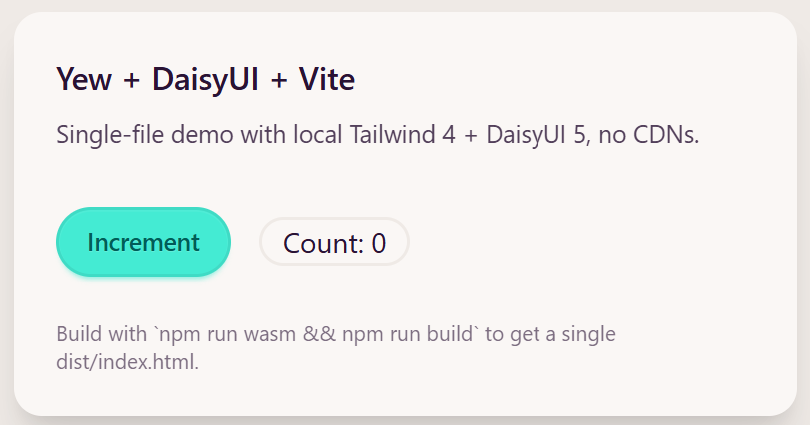
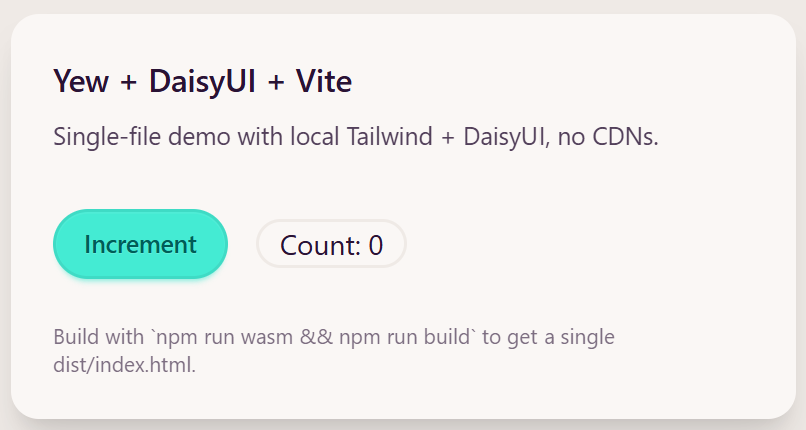
Update README and demo description to remove version numbers for Tailwind and DaisyUI

diff --git a/my-yew-app/src/lib.rs b/my-yew-app/src/lib.rs
@@ -16,7 +16,7 @@ pub fn app() -> Html {
                 <div class="card-body">
                     <h2 class="card-title">{"Yew + DaisyUI + Vite"}</h2>
                     <p class="text-sm opacity-80">
-                        {"Single-file demo with local Tailwind 4 + DaisyUI 5, no CDNs."}
+                        {"Single-file demo with local Tailwind + DaisyUI, no CDNs."}
                     </p>
 
                     <div class="mt-6 flex items-center gap-4">

diff --git a/README.md b/README.md
@@ -1,7 +1,7 @@
-# Yew + DaisyUI + Tailwind 4 + Vite (Single HTML file)
+# Yew + DaisyUI + Tailwind + Vite (Single HTML file)
 
 This is a minimal example of a Yew app compiled to WebAssembly and bundled
-with Vite, using Tailwind CSS 4 and DaisyUI 5 **without any CDNs**.
+with Vite, using Tailwind CSS and DaisyUI **without any CDNs**.
 
 ![Screenshot](docs/1.png)
 
@@ -11,7 +11,7 @@ The build uses `vite-plugin-singlefile` so the production output is a single
 ## Structure
 
 - `my-yew-app/` — Rust crate (Yew app built as `cdylib` via `wasm-pack`)
-- `frontend/`   — Vite + Tailwind 4 + DaisyUI 5 + singlefile plugin
+- `frontend/`   — Vite + Tailwind + DaisyUI + singlefile plugin
 
 ## Commands
 
